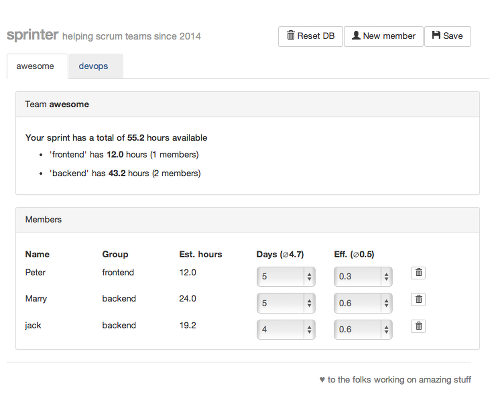
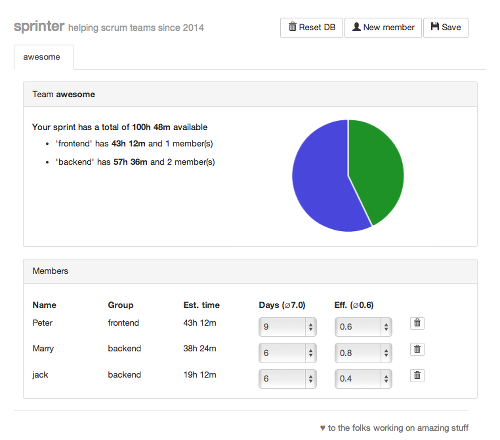
sprinter now includes charts and uses human readable time format

diff --git a/app/views/sprinterCalculator.html b/app/views/sprinterCalculator.html
@@ -5,10 +5,17 @@
 
     <div class="panel-body">
 
-      <h5>Your sprint has a total of <strong>{{totalHours}}</strong> available</h5>
-      <ul ng-repeat="group in groups">
-      <li>'{{group.name}}' has <strong>{{group.hours | floatToTime}}</strong> and {{group.memberCount}} member(s)</li>
-      </ul>
+      <div class="row">
+          <div class="col-md-6">
+              <h5>Your sprint has a total of <strong>{{totalHours | floatToTime}}</strong> available</h5>
+              <ul ng-repeat="group in groups">
+              <li>'{{group.name}}' has <strong>{{group.hours | floatToTime}}</strong> and {{group.memberCount}} member(s)</li>
+              </ul>
+          </div>
+          <div class="col-md-6">
+              <canvas sprinter-chart team='groups' width="300" height="200"></canvas>
+          </div>
+      </div>
 
     </div>
   </div>

diff --git a/app/scripts/directives/sprinterChart.js b/app/scripts/directives/sprinterChart.js
@@ -1,0 +1,29 @@
+'use strict';
+
+var app = angular.module('sprinterApp');
+app.directive('sprinterChart', function($compile, chartjs) {
+  return {
+    restrict: 'A',
+    scope: {
+      team: '=team'
+    },
+
+    link: function($scope, $elem, attrs) {
+      var Chart = chartjs;
+      var ctx = $elem[0].getContext('2d');
+      var chart = new Chart(ctx);
+
+      $scope.$watch('team', function() {
+          var data = [];
+          var team = $scope.team;
+          team.forEach(function(item) {
+            data.push({
+              value: item.hours * 100, // make floating point time to decimal
+              color: '#'+ Math.floor(Math.random()*16777215).toString(16)
+            });
+            chart.Pie(data);
+          });
+      });
+    }
+  };
+});

diff --git a/app/index.html b/app/index.html
@@ -32,6 +32,7 @@
     <script src="bower_components/angular-sanitize/angular-sanitize.js"></script>
     <script src="bower_components/angular-route/angular-route.js"></script>
     <script src="bower_components/angular-bootstrap/ui-bootstrap-tpls.js"></script>
+    <script src="bower_components/chartjs/Chart.min.js"></script>
     <!-- endbower -->
     <!-- endbuild -->
 
@@ -44,6 +45,7 @@
         <script src="scripts/services/AlertService.js"></script>
         <script src="scripts/services/SprintService.js"></script>
         <script src="scripts/filters/sprinterFloatToTime.js"></script>
+        <script src="scripts/directives/sprinterChart.js"></script>
 
     </body>
 </html>

diff --git a/app/scripts/app.js b/app/scripts/app.js
@@ -18,5 +18,11 @@ angular.module('sprinterApp', [
         redirectTo: '/'
       });
   })
+
+  .factory('chartjs', function() {
+    return window.Chart;
+  })
+
+
   .constant('SERVER_URL','http://127.0.0.1:8080/server.php')
   .constant('HOURS_IN_DAY', 8);
